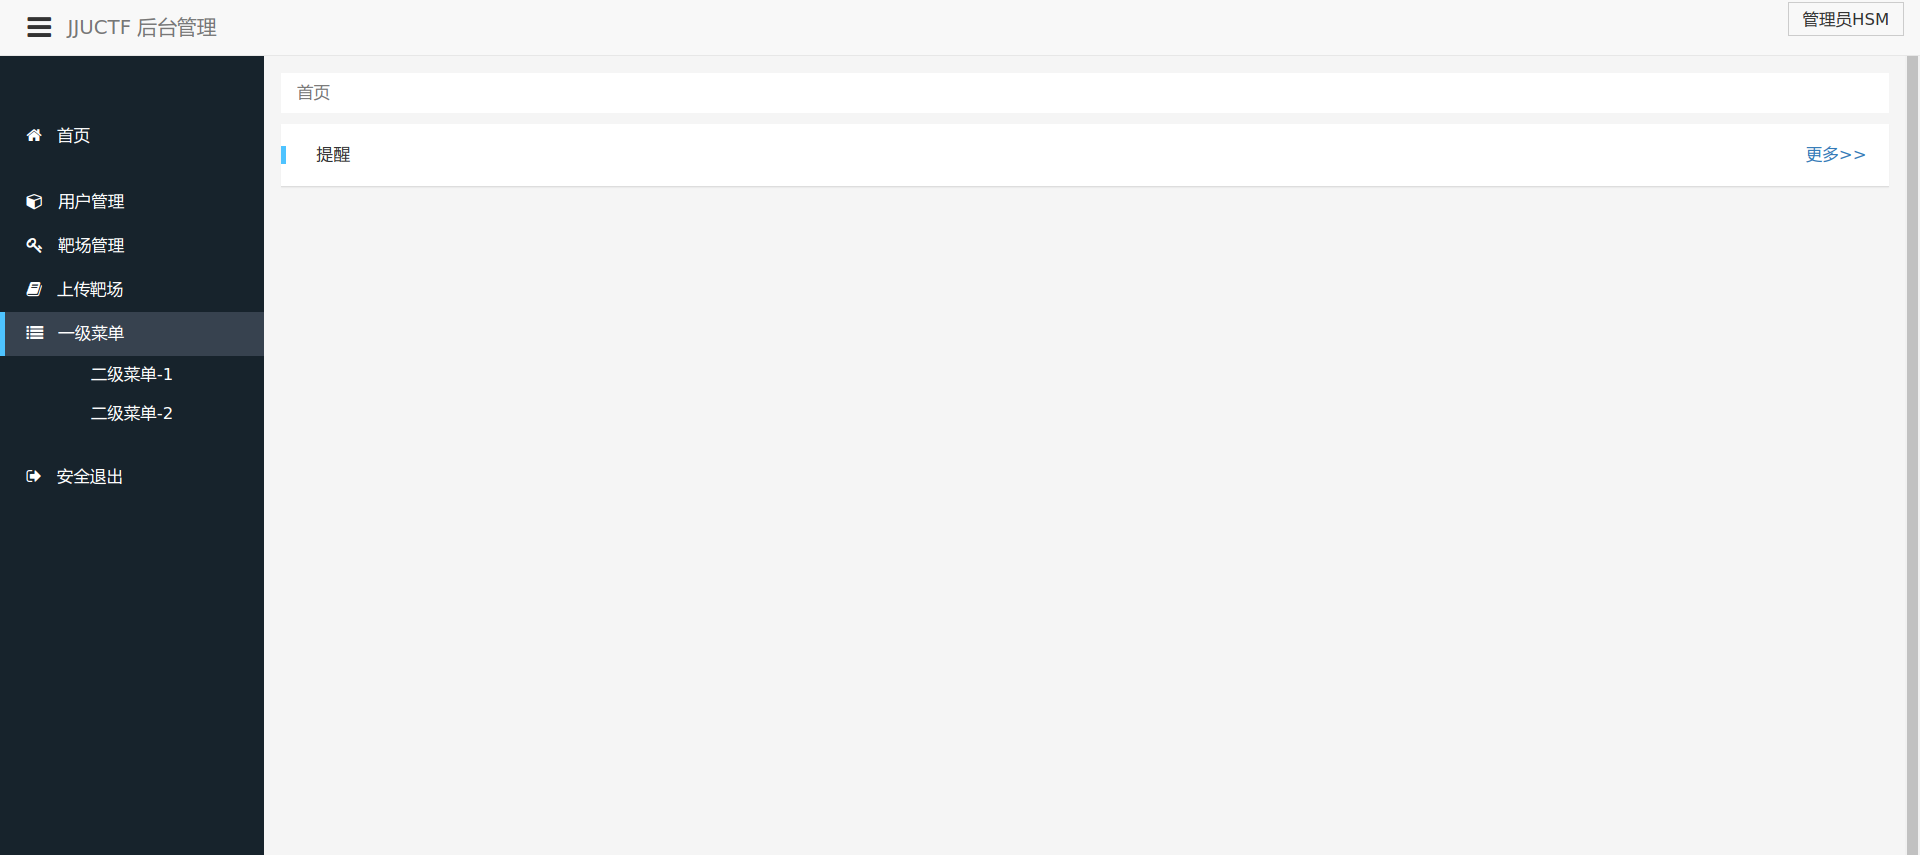
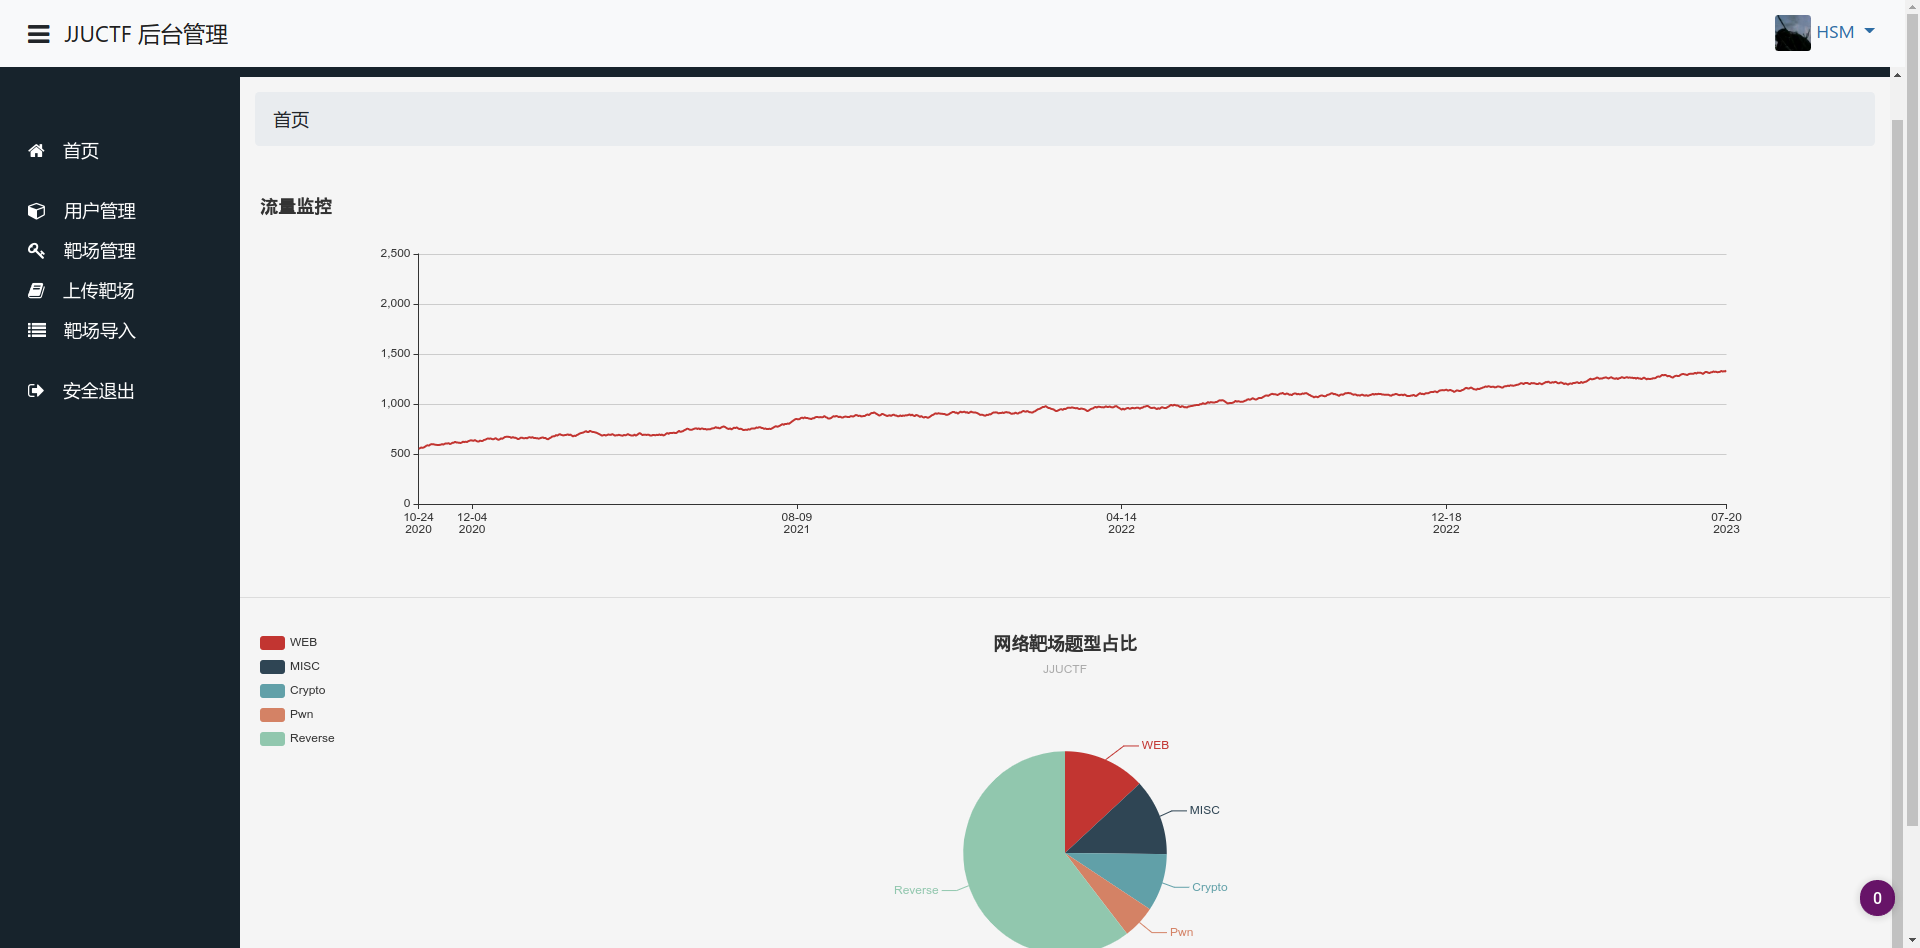
增加态势感知地图和一些其他界面的UI

diff --git a/README.md b/README.md
@@ -15,6 +15,8 @@ JJUCTF是一个网络安全靶场，可以提供添加容器(Docker)，用户管
 ![](static/image/readme/admin_login.png)
 管理员页面
 ![](static/image/readme/admin_index.png)
+upload
+![](static/image/readme/admin_upload.png)
 ## 技术栈：
 - 虚拟化：Docker
 - 后端编程语言：Python
